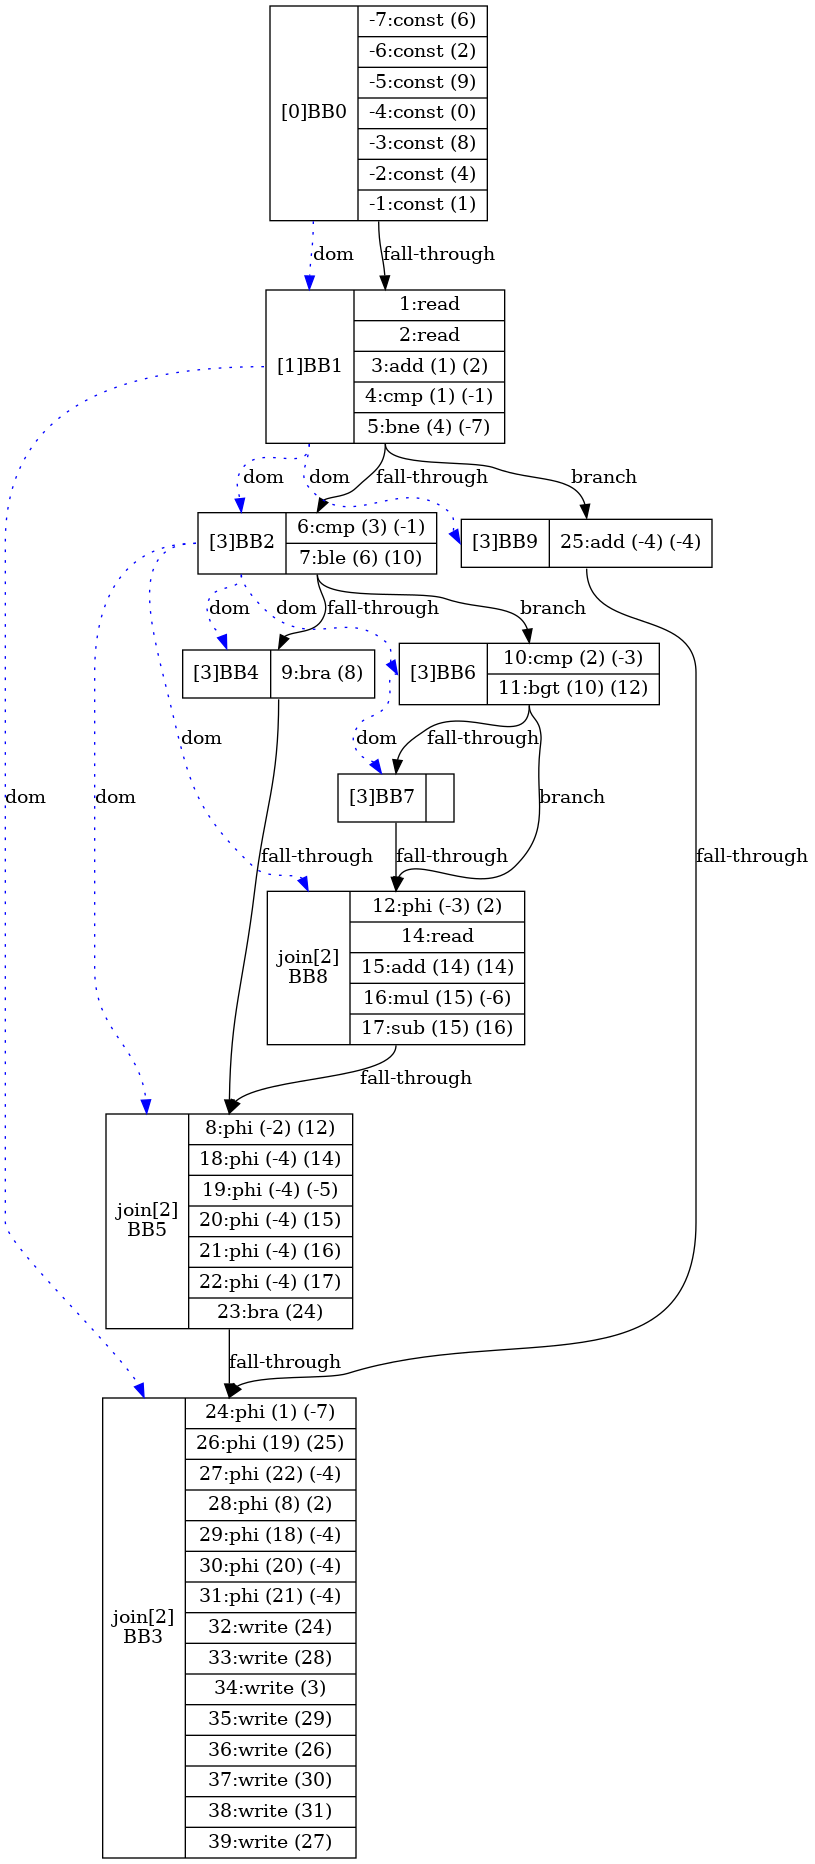
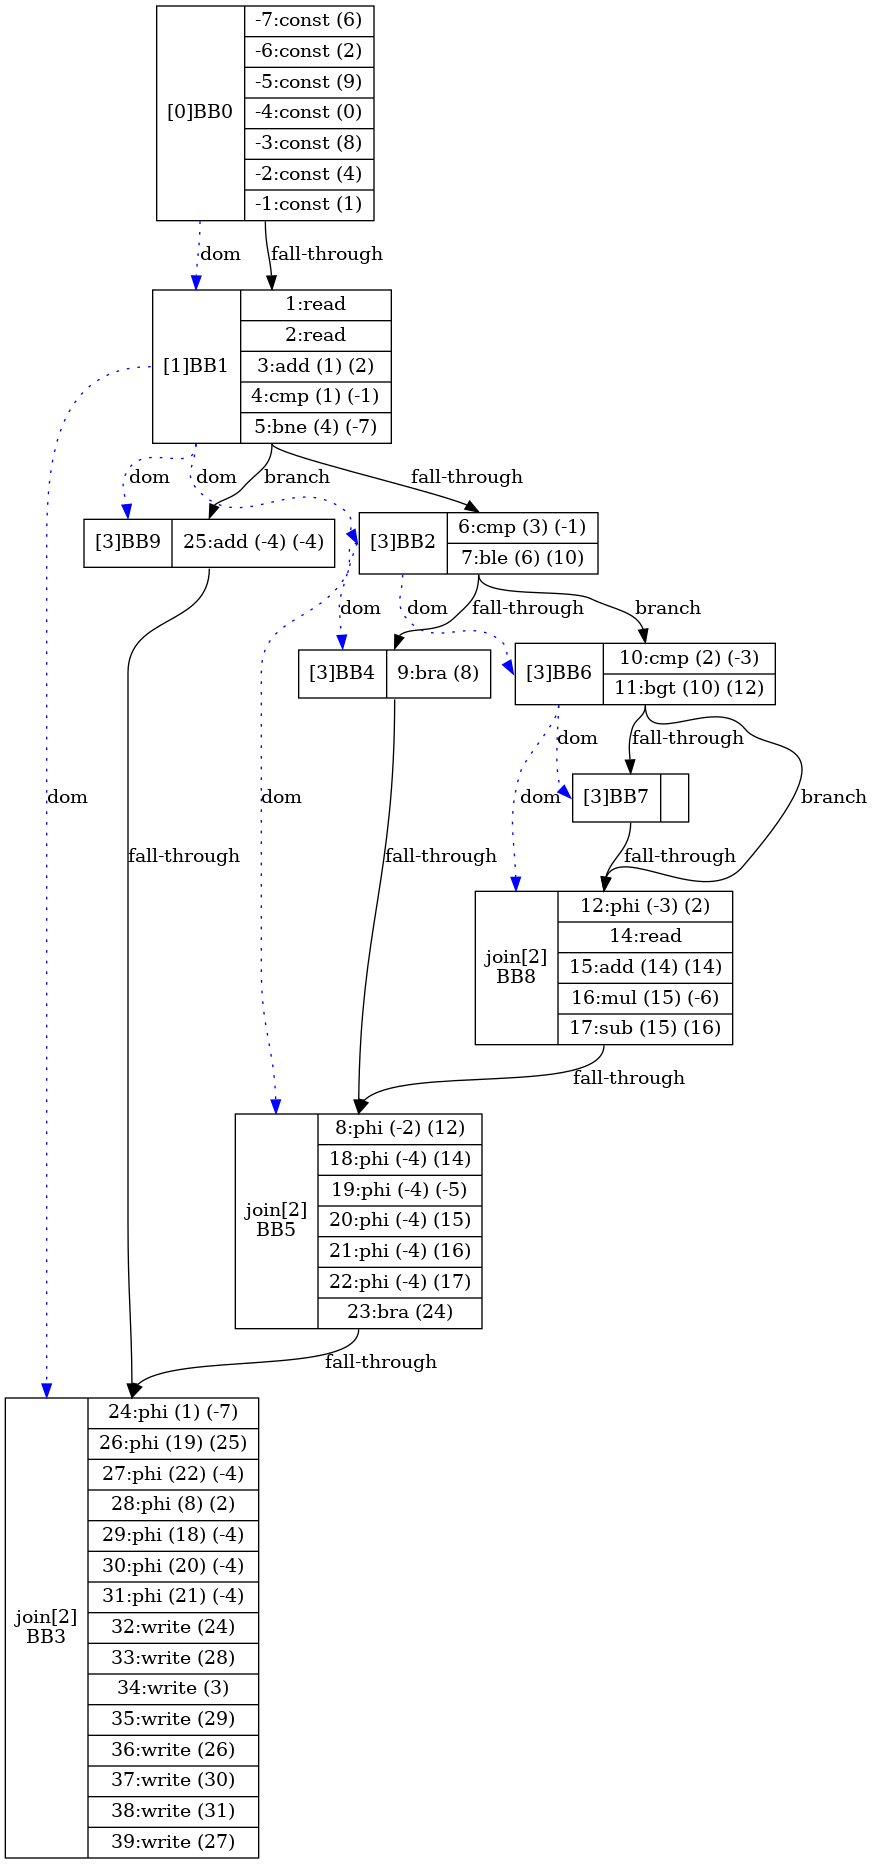
resolved [nested_nested_if2.ty]; todo - NESTING; todo - funcCalls; todo - valgrind

diff --git a/src/Parser.hpp b/src/Parser.hpp
@@ -1262,6 +1262,58 @@ public:
         }
     }
 
+    inline void cleanPhiDupes() {
+        // for each phi instr, compare against every other in phi-linkedlist (6) to see if dupe exists;
+        // - if a dupe exists, remove the higher numbered (debugNum) ssa && update its [ident:identVal] ident to point to the lower-numbered-ssa
+        //      - propagateDown from BB with the higher numbered ssa in [newInstrs]?
+    
+        LinkedList *phi_lst = BasicBlock::instrList.at(6);
+        std::vector<SSA *> seen = {};
+        Node *curr = phi_lst->tail;
+
+        while (seen.size() < phi_lst->length) {
+            if (!curr) {
+                break;
+            }
+
+            if (std::find(seen.begin(), seen.end(), curr->instr) != seen.end()) {
+                curr = curr->prev;
+                continue;
+            }
+
+            // this could be a function: checkPhiDupe(ssa *phi, linkedList *phiLst);
+            Node *tmp = phi_lst->tail;
+            while (tmp) {
+                if (tmp->instr->get_debugNum() == curr->instr->get_debugNum()) {
+                    tmp = tmp->prev;
+                    continue;
+                }
+
+                if (tmp->instr->compare(curr->instr)) {
+                    break;
+                }
+                tmp = tmp->prev;
+            }
+            if (!tmp) {
+                // no dupe found
+                curr = curr->prev;
+                continue;
+            }
+
+            SSA *toRemove, *replacement;
+
+            if (tmp->instr->get_debugNum() > curr->instr->get_debugNum()) {
+                toRemove = tmp->instr;
+                replacement = curr->instr;
+            } else { toRemove = curr->instr; replacement = tmp->instr; }
+
+            // [1.5.2024]: find all ident:identVal mappings where identVal == [toRemove]
+            // && update with [replacement]
+            //  - find BB with [toRemove] in [newInstrs]
+            //  - update then propagateDown()?
+        }
+    }
+
     static void printResultVec(std::vector<Result> r) { // [11.24.2024]: print result vector subset (for testing) in [funcDecl()]
         std::string resultStr = "";
         
@@ -1427,6 +1479,46 @@ public:
         return res;
     }
 
+    // inline BasicBlock* getIfParent(BasicBlock *k) {
+    //     if (k->parent && k->parent->child->blockNum == k->child2->blockNum) {
+
+    //     }
+    // }
+
+    // given a join block, finnd the if-parent associated with it
+    inline BasicBlock* getIfParent(BasicBlock *join) {
+        BasicBlock *last1 = join->parent, *last2 = join->parent2;
+
+        if (last1->blkType == 2) {
+            last1 = this->getIfParent(last1);
+        }
+        if (last2->blkType == 2) {
+            last2 = this->getIfParent(last2);
+        }
+
+        // 1.5.2025]: nott sure if this is right
+        while (last1->blkType != 3) {
+            last1 = last1->parent;
+        }
+        while (last2->blkType != 3) {
+            last2 = last2->parent;
+        }
+
+        
+        if (last1->parent && last1->parent->blockNum == last2->blockNum) {
+            return last2;
+        }
+        if (last2->parent && last2->parent->blockNum == last1->blockNum) {
+            return last1;
+        }
+        if (last1->parent->blockNum == last2->parent->blockNum) {
+            return last1->parent;
+        }
+        // [1.5.2025]: may need to add more cases as the ycome up
+        // if (last1->blockNum == last2->blockNum) {}
+        return last1; // stub (?)
+    }
+
     inline std::string BBtoDOT() {
         std::string res = "digraph G {\n\trankdir=TB;\n\n";
         std::string c_res = "";
@@ -1505,13 +1597,18 @@ public:
                     tmp.push(curr->child);
                 } else {
                     #ifdef DEBUG
-                        std::cout << "found a join-blk " << std::endl;
+                        std::cout << "found a join-blk: " << std::endl << curr->child->toString() << std::endl;
                     #endif
                     BasicBlock *temp = curr;
                     while (temp) {
                         if (temp->blkType == 3) {
-                            temp = temp->parent;
-                            res += "\tbb" + std::to_string(temp->blockNum) +  ":b -> bb" + std::to_string(curr->child->blockNum) + ":b [color=blue, style=dotted, label=\"dom\"];\n";
+                            BasicBlock *join = curr->child, *ifParent = this->getIfParent(join);
+                            #ifdef DEBUG
+                                std::cout << "got ifParent: [" << ifParent->toString() << "]" << std::endl;
+                            #endif
+
+                            // temp = temp->parent;
+                            res += "\tbb" + std::to_string(ifParent->blockNum) +  ":b -> bb" + std::to_string(curr->child->blockNum) + ":b [color=blue, style=dotted, label=\"dom\"];\n";
                             tmp.push(curr->child);
                             seen.push_back(curr->child);
                             break;
@@ -1527,13 +1624,18 @@ public:
                     tmp.push(curr->child2);
                 } else {
                     #ifdef DEBUG
-                        std::cout << "found a join-blk " << std::endl;
+                        std::cout << "found a join-blk " << std::endl << curr->child->toString() << std::endl;
                     #endif
                     BasicBlock *temp = curr;
                     while (temp) {
                         if (temp->blkType == 3) {
-                            temp = temp->parent;
-                            res += "\tbb" + std::to_string(temp->blockNum) +  ":b -> bb" + std::to_string(curr->child2->blockNum) + ":b [color=blue, style=dotted, label=\"dom\"];\n";
+                            BasicBlock *join = curr->child2, *ifParent = this->getIfParent(join);
+                            #ifdef DEBUG
+                                std::cout << "got ifParent: [" << ifParent->toString() << "]" << std::endl;
+                            #endif
+
+                            // temp = temp->parent;
+                            res += "\tbb" + std::to_string(ifParent->blockNum) +  ":b -> bb" + std::to_string(curr->child2->blockNum) + ":b [color=blue, style=dotted, label=\"dom\"];\n";
                             tmp.push(curr->child2);
                             seen.push_back(curr->child2);
                             break;

diff --git a/src/Parser.cpp b/src/Parser.cpp
@@ -110,6 +110,8 @@ SSA* Parser::p2_start() {
     this->CheckFor(Result(2, 16)); // check for `}`
     this->CheckFor(Result(2, 30)); // check for `.`
 
+    this->cleanPhiDupes();
+
     #ifdef DEBUG
         std::cout << "done parsing p2! printing basicblocks: " << std::endl;
         this->blksSeen.clear();
